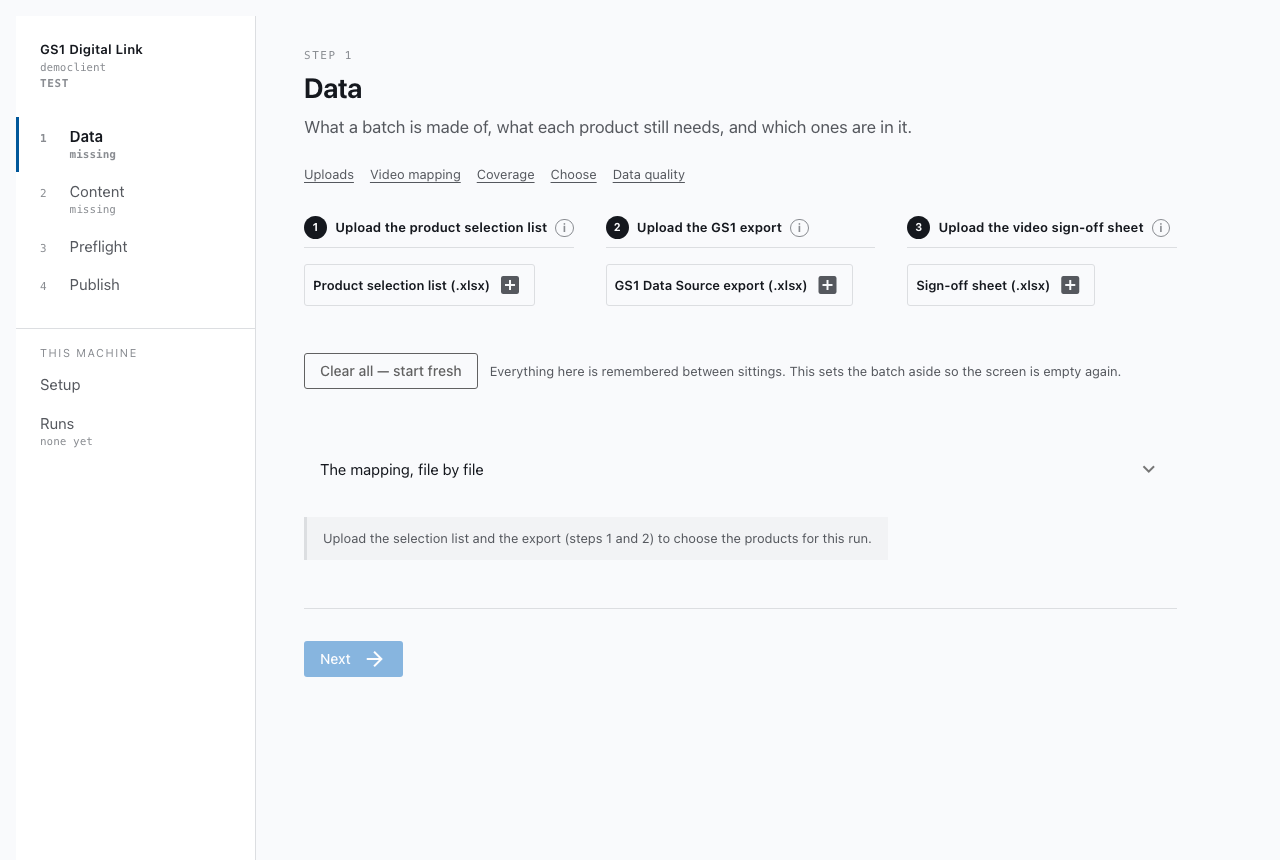
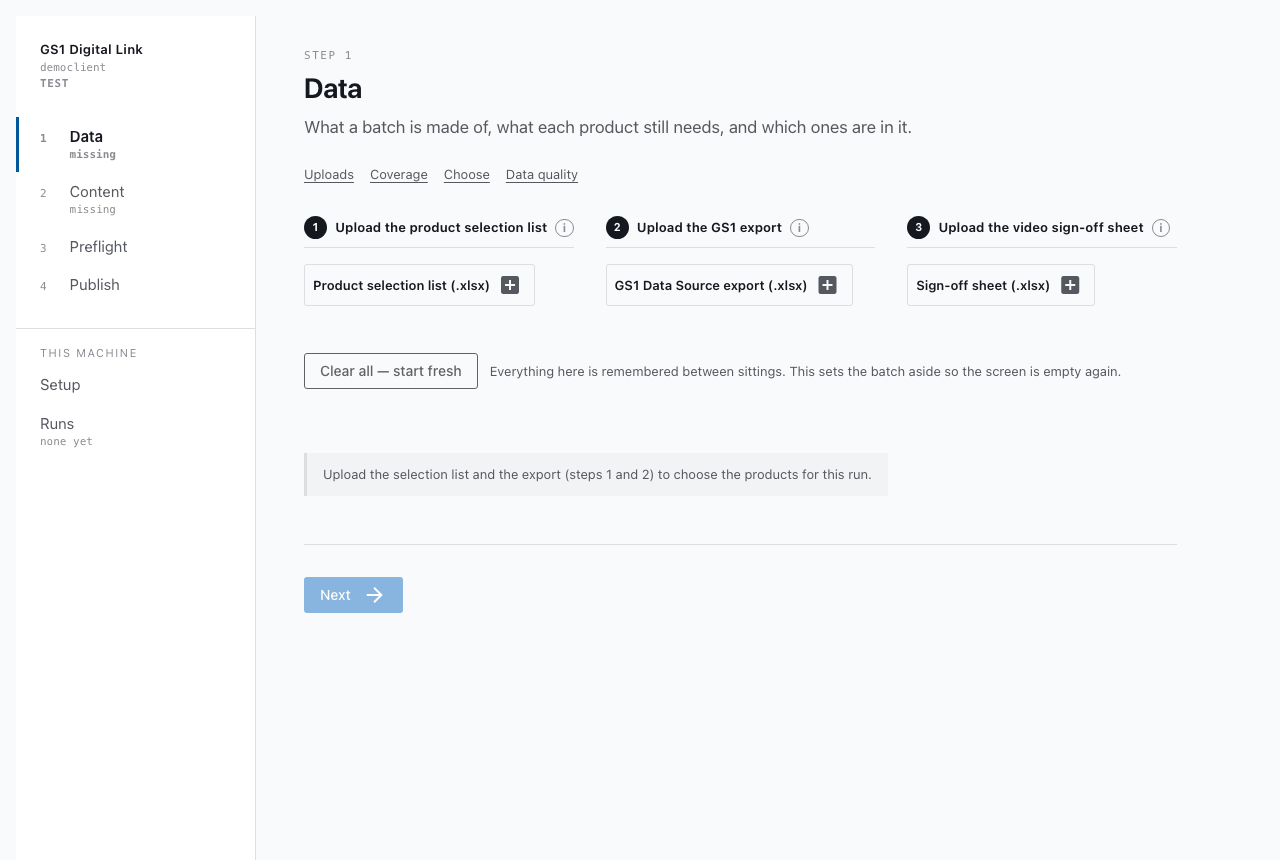
docs: recapture the Data screenshots without the mapping fold

diff --git a/docs/operator-guide.md b/docs/operator-guide.md
@@ -65,7 +65,7 @@ and whoever helps you knows exactly what happened.
 
 ## Step 1 — Data
 
-<img src="images/data.png" alt="The Data screen as it opens: jump links, then three uploads side by side — the product selection list, the GS1 export and the video sign-off sheet — a Clear all — start fresh button, the folded mapping, and a band asking for the list and the export." width="900">
+<img src="images/data.png" alt="The Data screen as it opens: jump links, then three uploads side by side — the product selection list, the GS1 export and the video sign-off sheet — a Clear all — start fresh button, and a band asking for the list and the export." width="900">
 
 *This is the screen as it opens.* Coverage, the product tables and the quality report appear once
 the list and the export are both there — see below.
